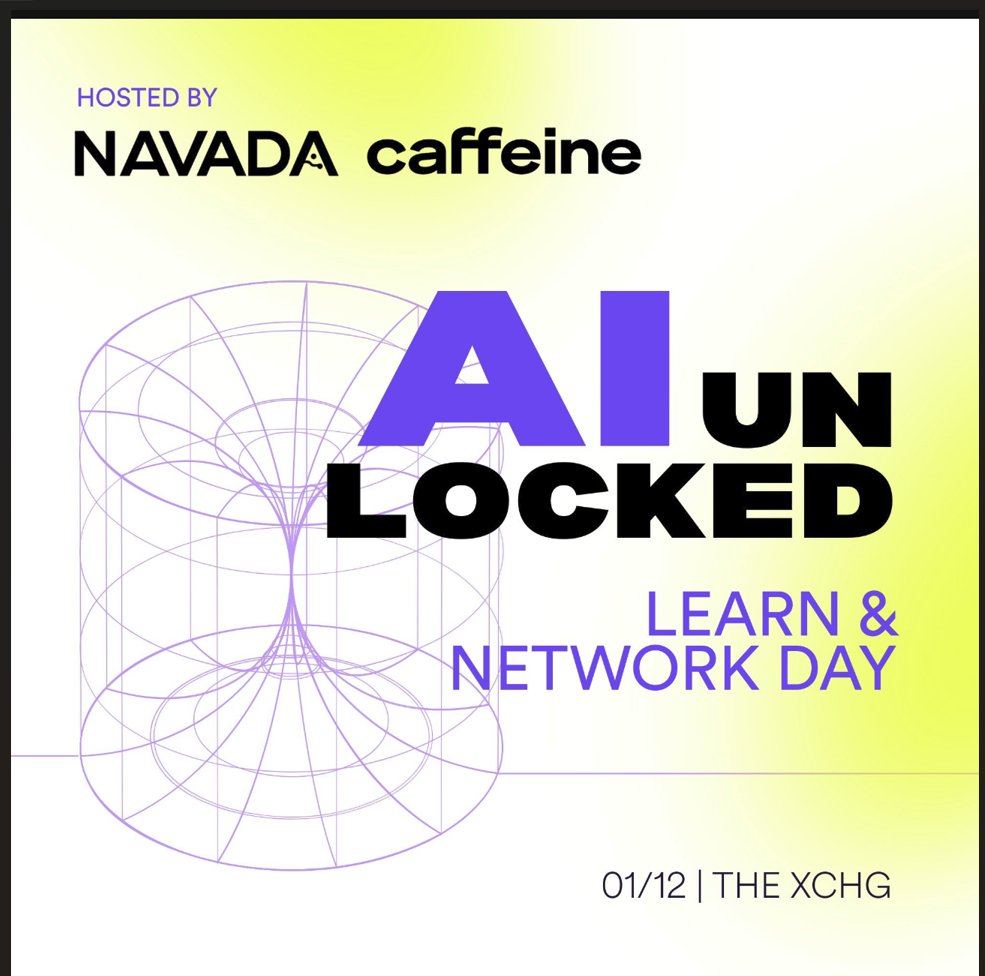
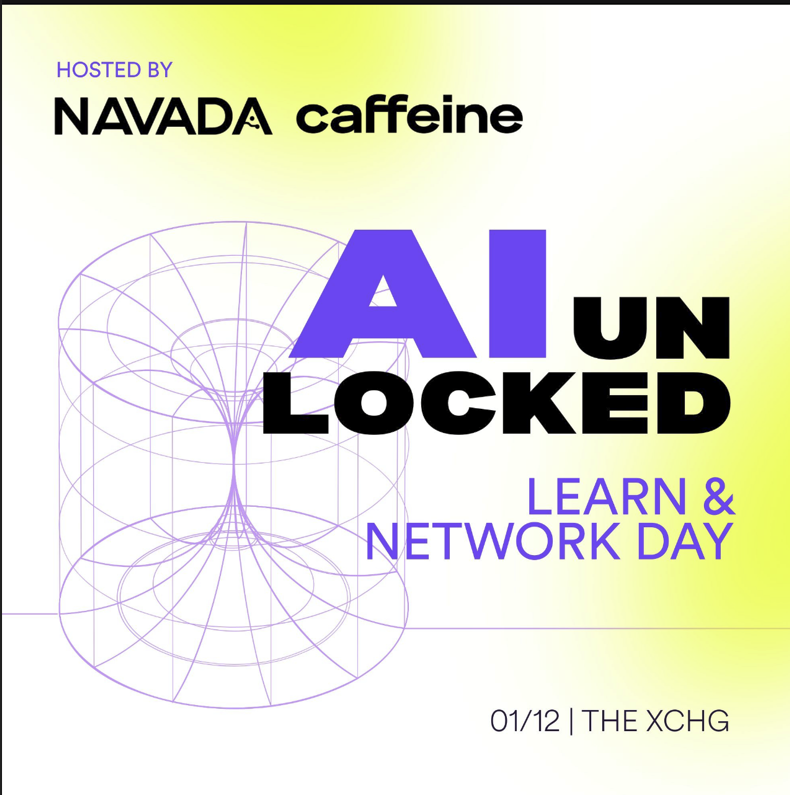
design: reduce event image size and ensure full display
- Reduce container from max-w-md to max-w-sm for smaller image
- Change from object-cover to object-contain to show full image
- Reduce image dimensions from 400x300 to 320x240
- Use h-auto to maintain aspect ratio and prevent cropping
- Ensure complete event poster is visible without cut-off parts

🤖 Generated with [Claude Code](https://claude.ai/code)

diff --git a/app/page.tsx b/app/page.tsx
@@ -200,7 +200,7 @@ export default function NavadaRoboticsApp() {
             <p className="text-gray-300 text-lg font-medium">1/12/2025</p>
           </div>
 
-          <div className="max-w-md mx-auto">
+          <div className="max-w-sm mx-auto">
             <Link
               href="https://caffeine.ai/"
               target="_blank"
@@ -211,9 +211,9 @@ export default function NavadaRoboticsApp() {
                 <OptimizedImage
                   src="/event-2.png"
                   alt="AI UNLOCKED: Learn & Network Day"
-                  width={400}
-                  height={300}
-                  className="w-full h-48 md:h-56 object-cover group-hover:scale-105 transition-transform duration-300"
+                  width={320}
+                  height={240}
+                  className="w-full h-auto object-contain group-hover:scale-105 transition-transform duration-300"
                 />
               </div>
             </Link>
